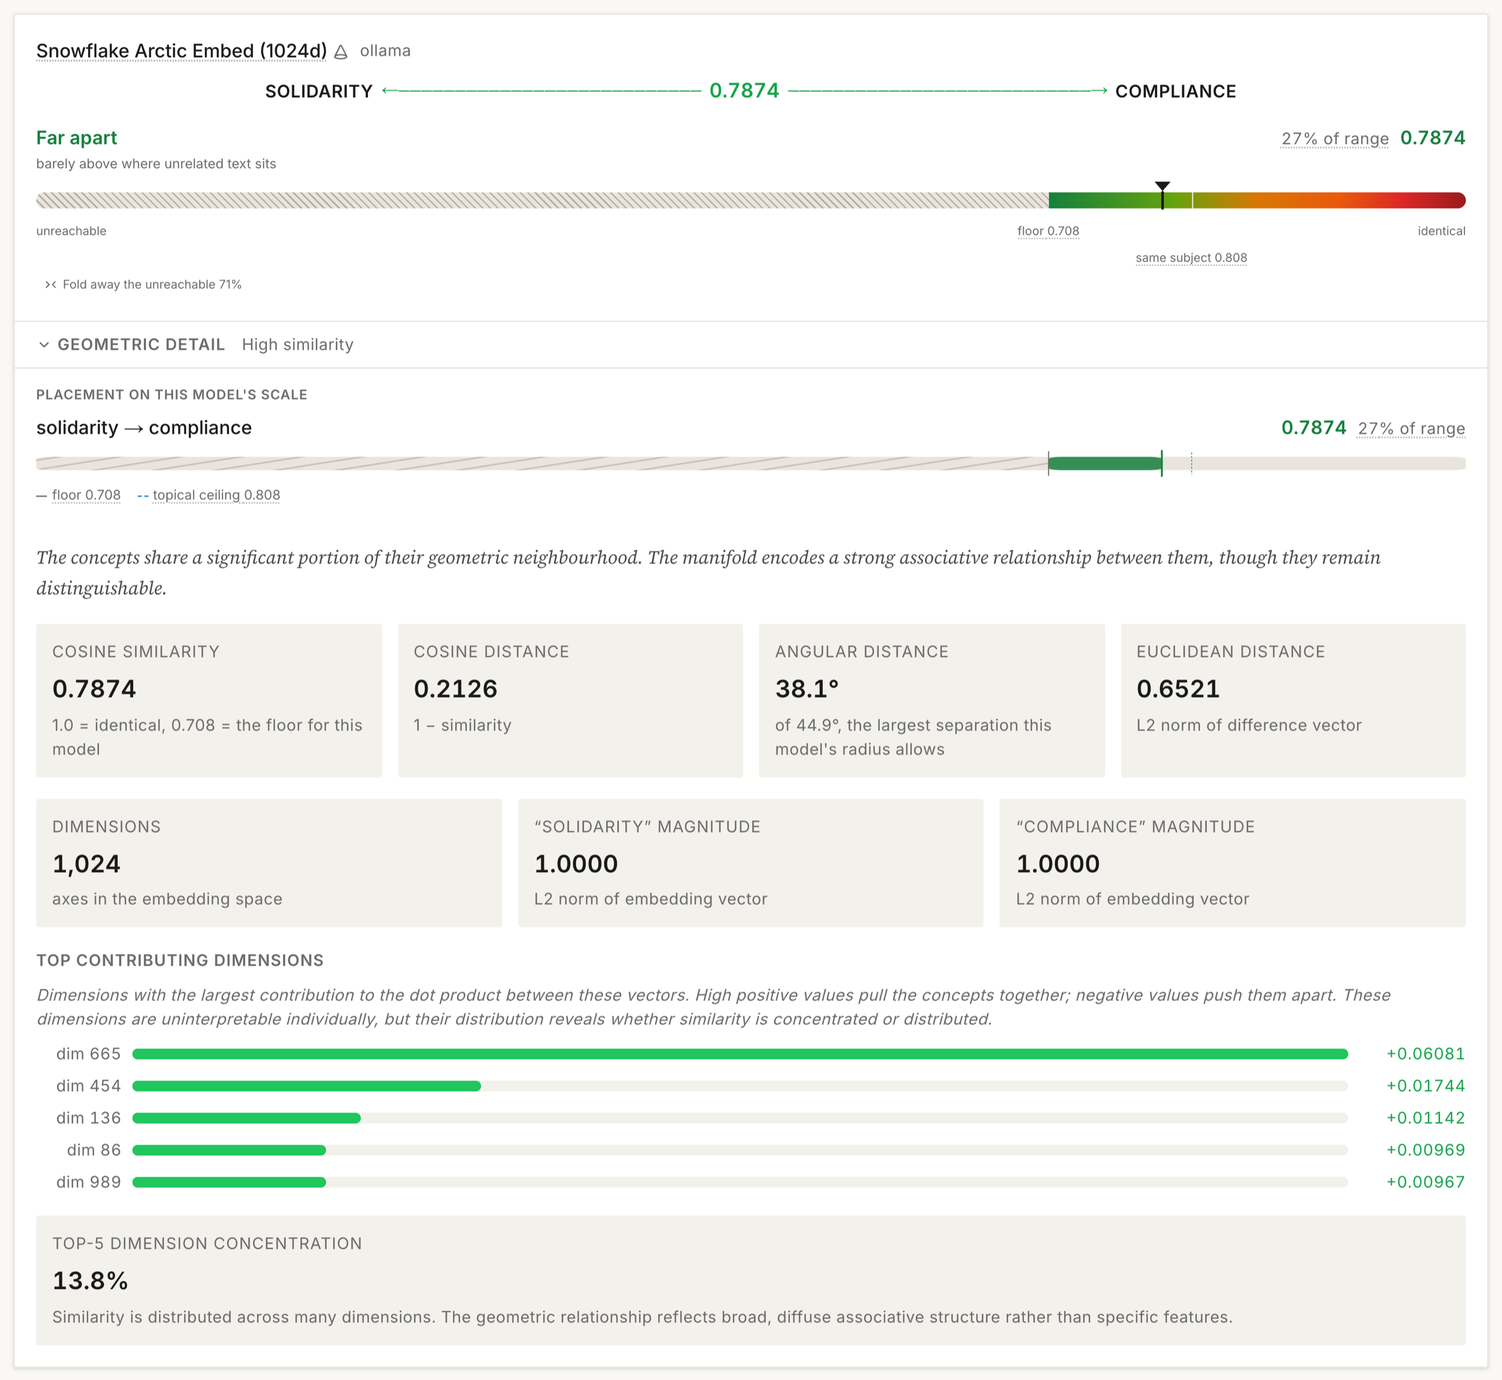
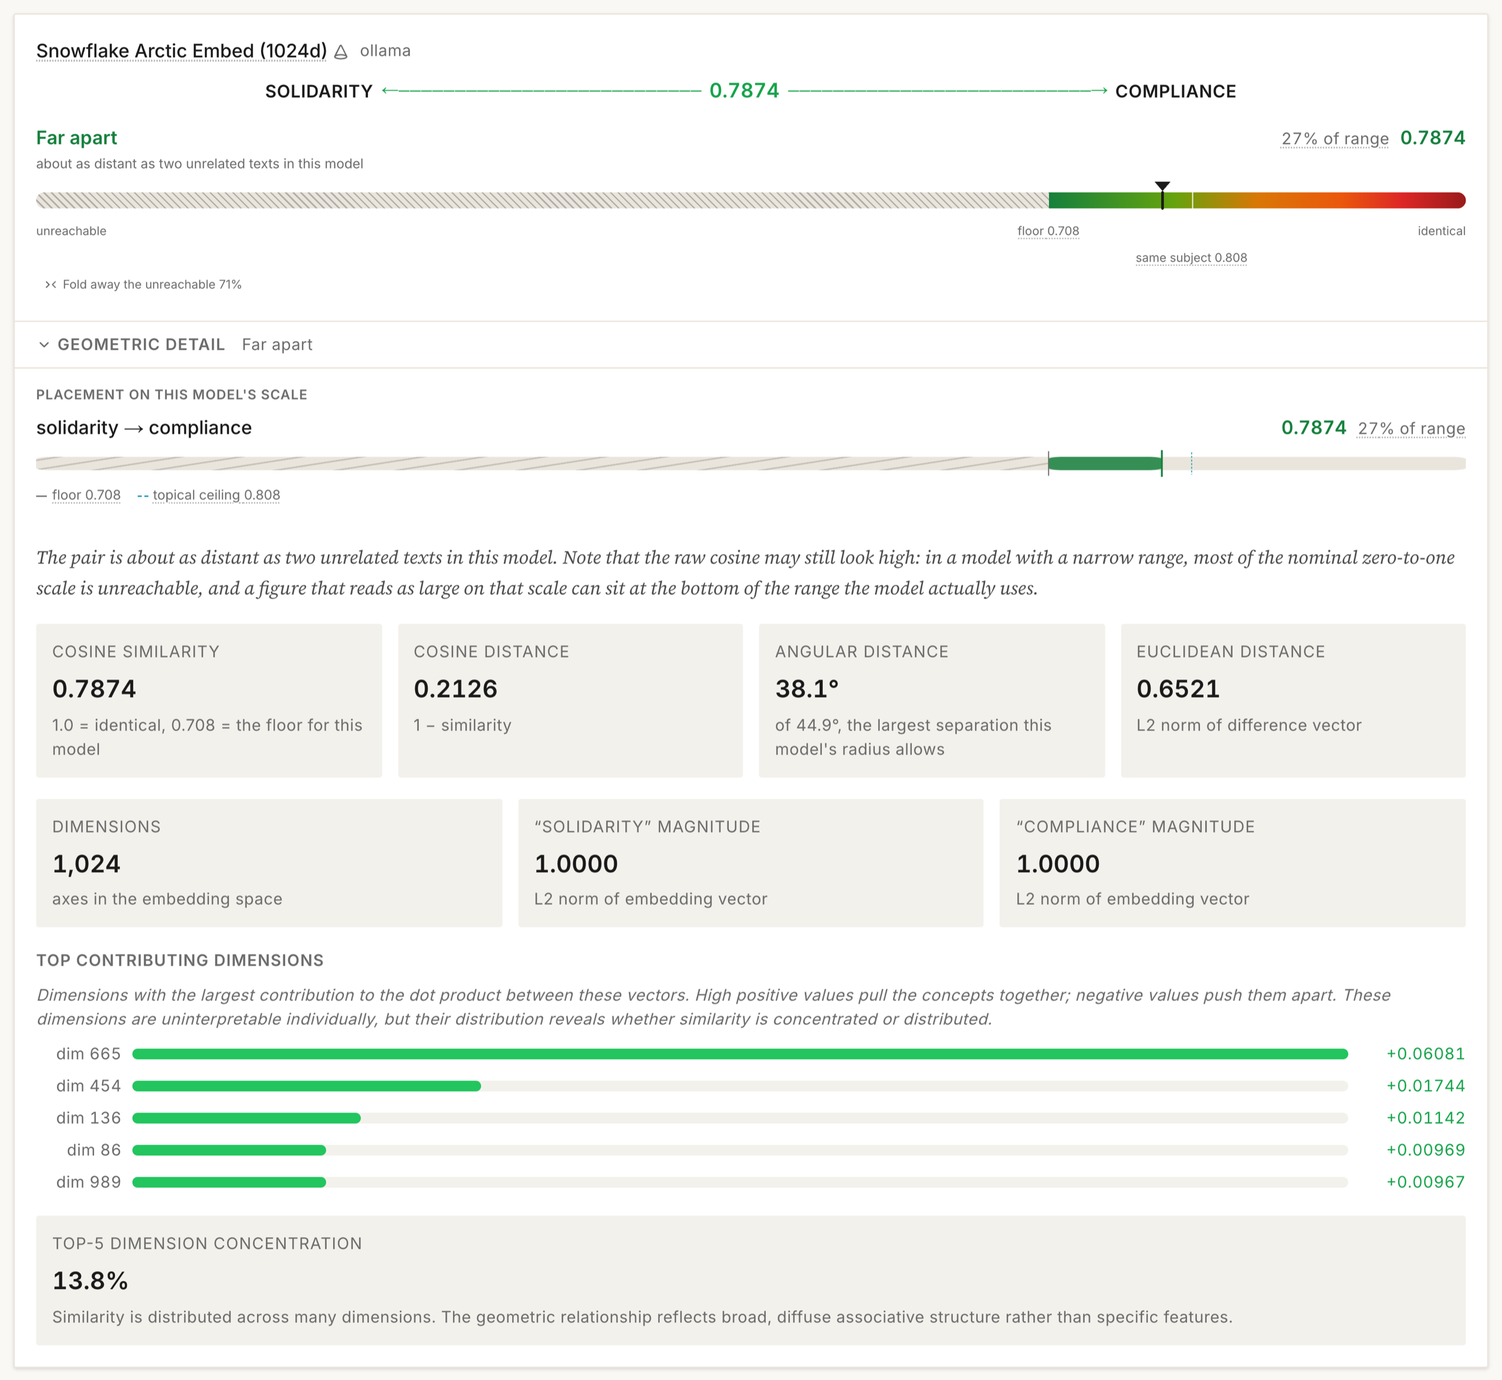
v1.19.0 — one reading per card, and a clearer verdict ladder
A card could contradict itself. In Snowflake Arctic Embed, whose floor
is 0.708, a cosine of 0.787 showed as "Far apart, 27% of range" at the
top and "High similarity ... the manifold encodes a strong associative
relationship" a few lines below. The verdict was calibrated; the
long-form reading underneath it was a separate ladder banding the raw
cosine against fixed cutoffs, and it was wrong.

Three such ladders remained: the Concept Distance interpretation, the
Negation Gauge long-form reading, and the Real Abstraction level. All
three now read the same floor-to-identity position the verdict reads,
so there is one reading per card rather than two.

The vocabulary is also tightened. "Far apart" paired with "barely above
where unrelated text sits" read as a contradiction, since "barely
above" sounds like a low qualifier attached to a verdict that already
says far apart. The ladder is now Indistinguishable, Very close, Close,
Somewhat apart, Far apart, strictly ordered on one axis, and the
reasons explain rather than hedge: "about as distant as two unrelated
texts in this model".

Not adopted from the suggested list: "Negated", because Concept
Distance involves no negation and the word would reimport the claim
that the model did something rather than that two things sit apart;
and "Collapse" as a general rung, because two concepts being close is
only a collapse if you expected them apart, which is the reader's
judgement rather than the instrument's.
[…]

Changed region(s): [[0.0312, 0.4035, 0.7812, 0.4345], [0.0312, 0.0931, 0.1875, 0.1241], [0.8125, 0.4035, 0.9062, 0.4345]]

diff --git a/src/components/operations/NegationGauge.tsx b/src/components/operations/NegationGauge.tsx
@@ -23,6 +23,7 @@ import { addHistoryEntry, type HistoryEntry } from "@/lib/history";
 
 import { ResetButton } from "@/components/shared/ResetButton";
 import { generateNegation } from "@/lib/negation";
+import { normalisedPosition } from "@/lib/calibration/baseline";
 import {
   computeNegationGauge,
   negationGaugeTextList,
@@ -33,26 +34,45 @@ import { DeepDivePanel, DeepDiveSection, DeepDiveStat } from "@/components/share
 
 const DEFAULT_STATEMENT = "This policy is fair";
 
-function negationVerdict(sim: number, threshold: number): { severity: string; explanation: string } {
-  if (sim >= 0.98) return {
-    severity: "Almost the same",
-    explanation: "The claim and its opposite are at almost the same place. Adding \u201Cnot\u201D has barely moved anything. Note what this does and does not say: the two sentences occupy nearly the same position, which is a fact about distance. It does not follow that the model has failed to understand the reversal, only that its geometry does not express one.",
-  };
+/**
+ * The long-form reading. Takes the model's floor so the rungs below the
+ * cutoff are positions on the measured scale rather than raw cosines;
+ * a raw 0.5 means different things in a model whose floor is 0.12 and
+ * one whose floor is 0.78.
+ */
+function negationVerdict(
+  sim: number,
+  threshold: number,
+  floor: number | null
+): { severity: string; explanation: string } {
+  if (floor === null) {
+    return {
+      severity: "Unmeasured scale",
+      explanation:
+        "This model has no measured floor, so the cosine above has no origin. It cannot be called high or low until the model is calibrated.",
+    };
+  }
+  const p = normalisedPosition(sim, floor);
+
   if (sim >= threshold) return {
-    severity: "Almost the same",
-    explanation: "Adding \u201Cnot\u201D moved the sentence a little, but not past the point where this model starts telling texts apart. Most of the position is unchanged. In logic a negation reverses the meaning; here it is a small nudge.",
+    severity: p >= 0.95 ? "Indistinguishable" : "Indistinguishable",
+    explanation: "Adding \u201Cnot\u201D moved the sentence, but not past the point where this model starts telling texts apart. Most of the position is unchanged. In logic a negation reverses the meaning; here it is a small nudge. Note what this does and does not say: the two sentences sit close together, which is a fact about distance. It does not follow that the model failed to understand the reversal, only that its geometry does not express one.",
   };
-  if (sim >= threshold - 0.07) return {
+  if (threshold - sim <= 0.02) return {
     severity: "Borderline",
     explanation: "There is a gap between the claim and its opposite, but a thin one, sitting right at the point where this model starts telling texts apart. A small change of wording could move it either way.",
   };
-  if (sim >= 0.5) return {
-    severity: "Somewhat different",
-    explanation: "The model puts the claim and its opposite in different places, but not far apart, and closer to each other than to unrelated text.",
+  if (p >= 0.85) return {
+    severity: "Very close",
+    explanation: "The opposite sits near the top of the range this model can express. It cleared the cutoff, but there is little room left between the two.",
+  };
+  if (p >= 0.3) return {
+    severity: "Somewhat apart",
+    explanation: "The model puts the claim and its opposite in different places, about midway between unrelated text and identity on its own scale.",
   };
   return {
-    severity: "Clearly different",
-    explanation: "The model puts the claim and its opposite well apart. That is the least it has to do for the distinction to be usable, but distance is not the same thing as logical negation: it measures what tends to occur together, not what is true, so a wide gap is not evidence that the model has grasped the reversal.",
+    severity: "Far apart",
+    explanation: "The model puts the claim and its opposite about as far apart as two unrelated texts. That is the least it has to do for the distinction to be usable, but distance is not logical negation: it measures what tends to occur together, not what is true, so a wide gap is not evidence the model grasped the reversal.",
   };
 }
 
@@ -333,7 +353,7 @@ export function NegationGauge({ onQueryTime }: NegationGaugeProps) {
           {/* Per-model results */}
           <div className="space-y-3">
             {result.models.map(m => {
-              const verdict = negationVerdict(m.cosineSimilarity, m.threshold.value);
+              const verdict = negationVerdict(m.cosineSimilarity, m.threshold.value, m.floorMean);
 
               return (
                 <div key={m.modelId} className="card-editorial overflow-hidden">

diff --git a/src/components/operations/ConceptDistance.tsx b/src/components/operations/ConceptDistance.tsx
@@ -26,30 +26,51 @@ import { DeepDivePanel, DeepDiveSection, DeepDiveStat } from "@/components/share
 const DEFAULT_A = "solidarity";
 const DEFAULT_B = "compliance";
 
-function interpretSimilarity(sim: number): { text: string; detail: string } {
-  if (sim >= 0.95) return {
-    text: "Near-identical",
-    detail: "The manifold treats these concepts as virtually the same point. This is either a genuine semantic equivalence or a failure of geometric discrimination.",
+/**
+ * The long-form reading beneath the verdict.
+ *
+ * This used to band the raw cosine against fixed cutoffs, which put it
+ * in direct conflict with the verdict printed above it. In a model
+ * whose floor is 0.708 a cosine of 0.787 fell in the ">= 0.7" bucket
+ * and was described as "High similarity ... a strong associative
+ * relationship", while the calibrated verdict correctly read the same
+ * figure as 27% of the reachable range and near the floor. Two voices
+ * in one card, and the uncalibrated one was wrong.
+ *
+ * It now reads the same floor-to-identity position the verdict reads,
+ * so there is one reading rather than two.
+ */
+function interpretSimilarity(
+  sim: number,
+  floor: number | null
+): { text: string; detail: string } {
+  if (floor === null) {
+    return {
+      text: "Unmeasured scale",
+      detail:
+        "This model has no measured floor, so the cosine above has no origin to be read from. It cannot be called high or low, and it cannot be compared with the same figure from another model. Calibrate the model to place it.",
+    };
+  }
+  const p = normalisedPosition(sim, floor);
+  if (p >= 0.95) return {
+    text: "Indistinguishable",
+    detail: "The two sit at effectively the same point on this model\u2019s scale. That is either a genuine equivalence or a failure of discrimination, and the geometry alone does not say which.",
   };
-  if (sim >= 0.85) return {
-    text: "Very high similarity",
-    detail: "The manifold positions these concepts as close neighbours. They occupy overlapping regions of the geometry, suggesting the model treats them as closely related or interchangeable in many contexts.",
+  if (p >= 0.85) return {
+    text: "Very close",
+    detail: "The pair sits near the top of what this model can express. Within the range this model actually uses, there is little room left between them.",
   };
-  if (sim >= 0.7) return {
-    text: "High similarity",
-    detail: "The concepts share a significant portion of their geometric neighbourhood. The manifold encodes a strong associative relationship between them, though they remain distinguishable.",
+  if (p >= 0.6) return {
+    text: "Close",
+    detail: "The pair is clearly nearer to each other than two unrelated texts are, and above where merely sharing a subject would put them.",
   };
-  if (sim >= 0.5) return {
-    text: "Moderate similarity",
-    detail: "The concepts are related but occupy distinct regions. The manifold recognises a connection but maintains geometric separation. This is typical of concepts within the same broad domain.",
-  };
-  if (sim >= 0.3) return {
-    text: "Low similarity",
-    detail: "The concepts are geometrically distant. The manifold positions them in different regions of the space, suggesting they belong to distinct semantic domains with limited overlap.",
+  if (p >= 0.3) return {
+    text: "Somewhat apart",
+    detail: "The pair sits about midway between unrelated text and identity on this model\u2019s scale. The model registers a relation without placing them together.",
   };
   return {
-    text: "Very low similarity",
-    detail: "The concepts are near-orthogonal in the manifold. The geometry encodes no meaningful relationship between them. They occupy effectively independent regions of the space.",
+    text: "Far apart",
+    detail: "The pair is about as distant as two unrelated texts in this model. Note that the raw cosine may still look high: in a model with a narrow range, most of the nominal zero-to-one scale is unreachable, and a figure that reads as large on that scale can sit at the bottom of the range the model actually uses.",
   };
 }
 
@@ -177,7 +198,7 @@ export function ConceptDistance({ onQueryTime }: ConceptDistanceProps) {
       {result && (
         <div className="space-y-4">
           {result.models.map(m => {
-            const interp = interpretSimilarity(m.cosineSimilarity);
+            const interp = interpretSimilarity(m.cosineSimilarity, floors.floor(m.modelId));
             const isExpanded = expandedModel === m.modelId;
 
             return (

diff --git a/src/components/operations/SohnRethelTest.tsx b/src/components/operations/SohnRethelTest.tsx
@@ -56,30 +56,54 @@ const PRELOADED_PAIRS: AbstractionPair[] = [
  * Same decision as the Agonism Test's move to observation-only labels
  * and the Negation Gauge's move away from "registered / lost".
  */
-function abstractionLevel(similarity: number): { label: string; detail: string; color: string } {
-  if (similarity >= 0.85) return {
-    label: "Almost the same",
-    detail: "the qualitative and the quantitative description sit at nearly the same point",
-    color: "#dc2626",
-  };
-  if (similarity >= 0.7) return {
-    label: "Barely different",
-    detail: "the qualitative description sits close to the exchange-value wording",
+/**
+ * How far apart the model puts the use-value and exchange-value
+ * descriptions of the same thing, on that model's measured scale.
+ *
+ * The labels describe distance and nothing else. An earlier version
+ * said "Fully abstracted: the manifold has completed the real
+ * abstraction", which delivers the theoretical conclusion as though it
+ * were the measurement. Two descriptions sitting close together is
+ * evidence a reader may take as real abstraction; it is not itself real
+ * abstraction. The Sohn-Rethel reading belongs in the interpretation,
+ * where it can be argued with.
+ *
+ * It also banded the raw cosine against fixed cutoffs, which put it at
+ * odds with the calibrated verdict above it in the same card.
+ */
+function abstractionLevel(
+  similarity: number,
+  floor: number | null
+): { label: string; detail: string; color: string } {
+  if (floor === null) return {
+    label: "Unmeasured scale",
+    detail: "this model has no measured floor, so the cosine has no origin",
     color: "#ea580c",
   };
-  if (similarity >= 0.5) return {
-    label: "Somewhat different",
-    detail: "some geometric distance survives between the two descriptions",
+  const p = normalisedPosition(similarity, floor);
+  if (p >= 0.95) return {
+    label: "Indistinguishable",
+    detail: "the qualitative and the quantitative description sit at effectively the same point",
+    color: "#dc2626",
+  };
+  if (p >= 0.85) return {
+    label: "Very close",
+    detail: "near the top of the range this model can express",
+    color: "#ea580c",
+  };
+  if (p >= 0.6) return {
+    label: "Close",
+    detail: "clearly nearer each other than two unrelated texts are",
     color: "#d97706",
   };
-  if (similarity >= 0.3) return {
-    label: "Clearly different",
-    detail: "the qualitative description holds a position of its own",
+  if (p >= 0.3) return {
+    label: "Somewhat apart",
+    detail: "about midway between unrelated text and identity on this model\u2019s scale",
     color: "#65a30d",
   };
   return {
     label: "Far apart",
-    detail: "the two descriptions are barely more alike than unrelated text",
+    detail: "about as distant as two unrelated texts in this model",
     color: "#16a34a",
   };
 }
@@ -250,7 +274,7 @@ export function SohnRethelTest({ onQueryTime }: SohnRethelTestProps) {
                       avgPos !== null
                         ? { ...levelFromPosition(avgPos), bgColor: "transparent" }
                         : {
-                            ...abstractionLevel(avgSimilarity),
+                            ...abstractionLevel(avgSimilarity, floors.floor(firstModel)),
                             bgColor: "transparent",
                             severity:
                               avgSimilarity >= 0.7 ? "high" : avgSimilarity >= 0.5 ? "moderate" : "low",
@@ -283,7 +307,7 @@ export function SohnRethelTest({ onQueryTime }: SohnRethelTestProps) {
                   </div>
                 </div>
                 {r.models.map(m => {
-                  const level = abstractionLevel(m.similarity);
+                  const level = abstractionLevel(m.similarity, floors.floor(m.modelId));
                   return (
                     <div key={m.modelId} className="mt-3">
                       <div className="font-sans text-[10px] text-muted-foreground uppercase tracking-wider font-semibold mb-1">

diff --git a/src/lib/version.ts b/src/lib/version.ts
@@ -6,5 +6,5 @@
  * Single source of truth for the application version.
  * All UI components should import from here.
  */
-export const VERSION = "1.18.0";
+export const VERSION = "1.19.0";
 export const VERSION_DATE = "8 August 2026";

diff --git a/README.md b/README.md
@@ -11,7 +11,7 @@
 
 **Author:** David M. Berry
 **Institution:** University of Sussex
-**Version:** 1.18.0
+**Version:** 1.19.0
 **Date:** 14 May 2026
 **Licence:** GPL-3.0-or-later
 
@@ -142,9 +142,9 @@ A cosine has no meaning without the scale it sits on. Embedding vectors occupy a
 
 **The cone, drawn.** A cone icon beside every model name opens the radius as a picture: the cone the model sweeps, the cap it reaches, and the dashed sphere of all directions it does not. Toggles show any single register or all three side by side, and any one model or every calibrated model at once, so the claim that two models reporting the same cosine are not reporting the same thing can be seen rather than argued.
 
-**One vocabulary across every operation.** Almost the same, Barely different, Somewhat different, Clearly different, Far apart, with the reason beneath in small type. Concept Distance used to say "Somewhat Similar" and "Moderate Distinction" in the same ladder; Real Abstraction said "Fully abstracted: the manifold has completed the real abstraction", which hands down the theoretical conclusion as though it were the measurement. Two descriptions sitting close together is evidence a reader may take as real abstraction. It is not itself real abstraction, and the instrument should not settle that in advance. The theoretical reading belongs in the interpretation, where it can be argued with.
+**One vocabulary across every operation.** Indistinguishable, Very close, Close, Somewhat apart, Far apart, with the reason beneath in small type. Concept Distance used to say "Somewhat Similar" and "Moderate Distinction" in the same ladder; Real Abstraction said "Fully abstracted: the manifold has completed the real abstraction", which hands down the theoretical conclusion as though it were the measurement. Two descriptions sitting close together is evidence a reader may take as real abstraction. It is not itself real abstraction, and the instrument should not settle that in advance. The theoretical reading belongs in the interpretation, where it can be argued with.
 
-**The verdict says how far apart, not what the model understood.** Negation verdicts read **Almost the same**, **Borderline**, **Barely different**, **Somewhat different**, **Clearly different**, with the reason beneath in small type. They describe distance, which is what was measured. An earlier version said "negation registered" and "negation lost", which imputes an act of recognition: it claims the model noticed the reversal, where all that was observed is proximity. Two sentences can sit far apart for reasons unconnected to the reversal, and a model that separates them has not thereby understood that one denies the other. The negation-specific claim sits in the reason line, because exactly one comparison licenses it: "“Not” is counterintuitively closer to its opposite than swapping in an unrelated word". That is about "not" specifically; a position on a scale is not. This follows the decision already taken for the Agonism Test, whose labels were changed from "opposition preserved / collapsed" to observation-only wording for the same reason.
+**The verdict says how far apart, not what the model understood.** Negation verdicts read **Indistinguishable**, **Borderline**, **Very close**, **Somewhat apart**, **Far apart**, with the reason beneath in small type. They describe distance, which is what was measured. An earlier version said "negation registered" and "negation lost", which imputes an act of recognition: it claims the model noticed the reversal, where all that was observed is proximity. Two sentences can sit far apart for reasons unconnected to the reversal, and a model that separates them has not thereby understood that one denies the other. The negation-specific claim sits in the reason line, because exactly one comparison licenses it: "“Not” is counterintuitively closer to its opposite than swapping in an unrelated word". That is about "not" specifically; a position on a scale is not. This follows the decision already taken for the Agonism Test, whose labels were changed from "opposition preserved / collapsed" to observation-only wording for the same reason.
 
 **Separations are drawn as dimension lines.** The bar between two texts carries its value between two arrowheads, and its length is the gap as a share of the reachable range rather than of the nominal zero-to-one scale. It is double-headed because a cosine is symmetric: a single head would imply a direction from claim to negation that the measurement does not have.
 
@@ -347,7 +347,7 @@ Either way, no API key is needed and no data leaves your machine.
 
 ## What the Verdicts Say, and What They Do Not
 
-Every operation uses the same five phrases for how far apart two texts sit: **Almost the same, Barely different, Somewhat different, Clearly different, Far apart**, read as positions on the model's measured scale with the reason printed beneath.
+Every operation uses the same five phrases for how far apart two texts sit: **Indistinguishable, Very close, Close, Somewhat apart, Far apart**, read as positions on the model's measured scale with the reason printed beneath. Every reading in the card, including the long-form interpretation beneath it, comes from that same position, so a card cannot say "Far apart" at the top and "High similarity" lower down.
 
 They describe distance, and only distance. That is the instrument's central commitment and it has had to be enforced three times. Earlier versions said "negation registered", "opposition preserved" and "the manifold has completed the real abstraction". Each imputes an act to the model, or hands down a theoretical conclusion, on the strength of a number that shows neither. Two sentences can sit far apart for reasons unconnected to the negation between them, and a model that separates them has not thereby understood that one denies the other. Two descriptions sitting close together is evidence a reader may take as real abstraction; it is not itself real abstraction.
 
